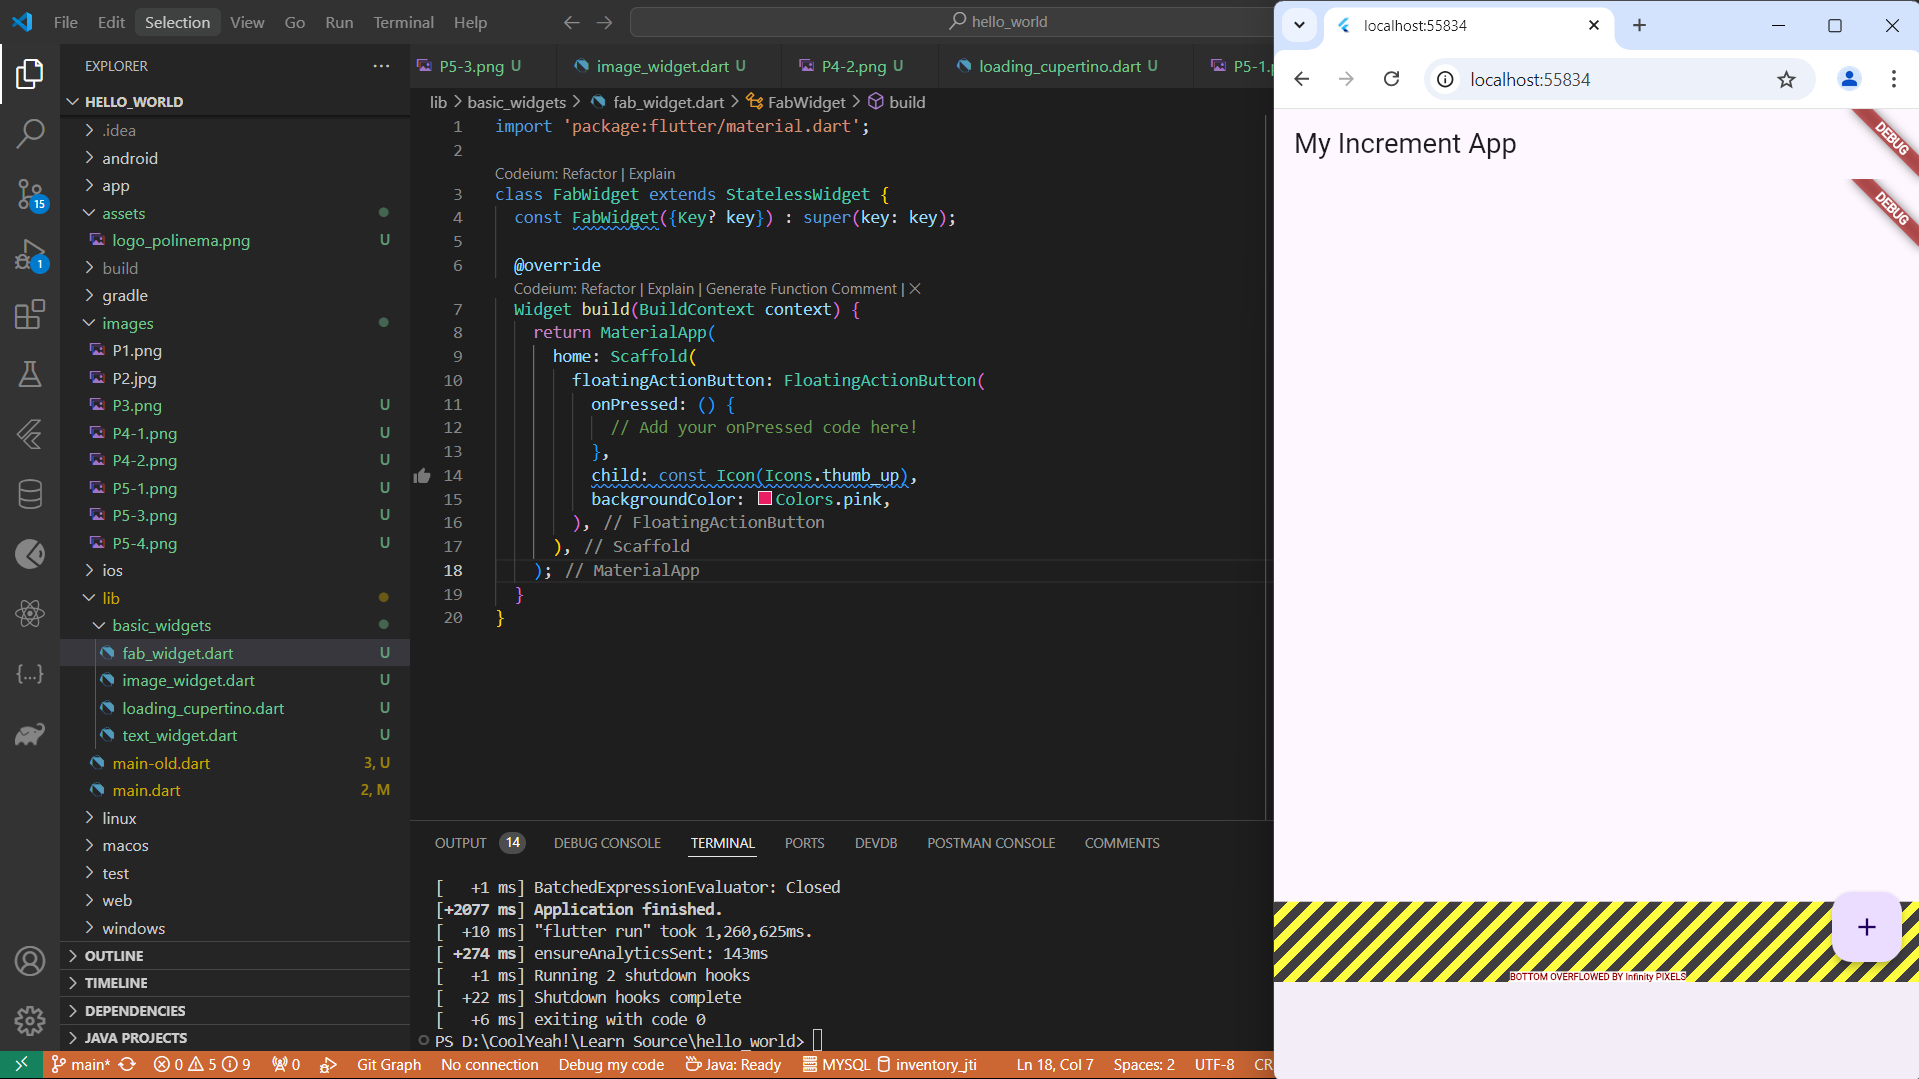
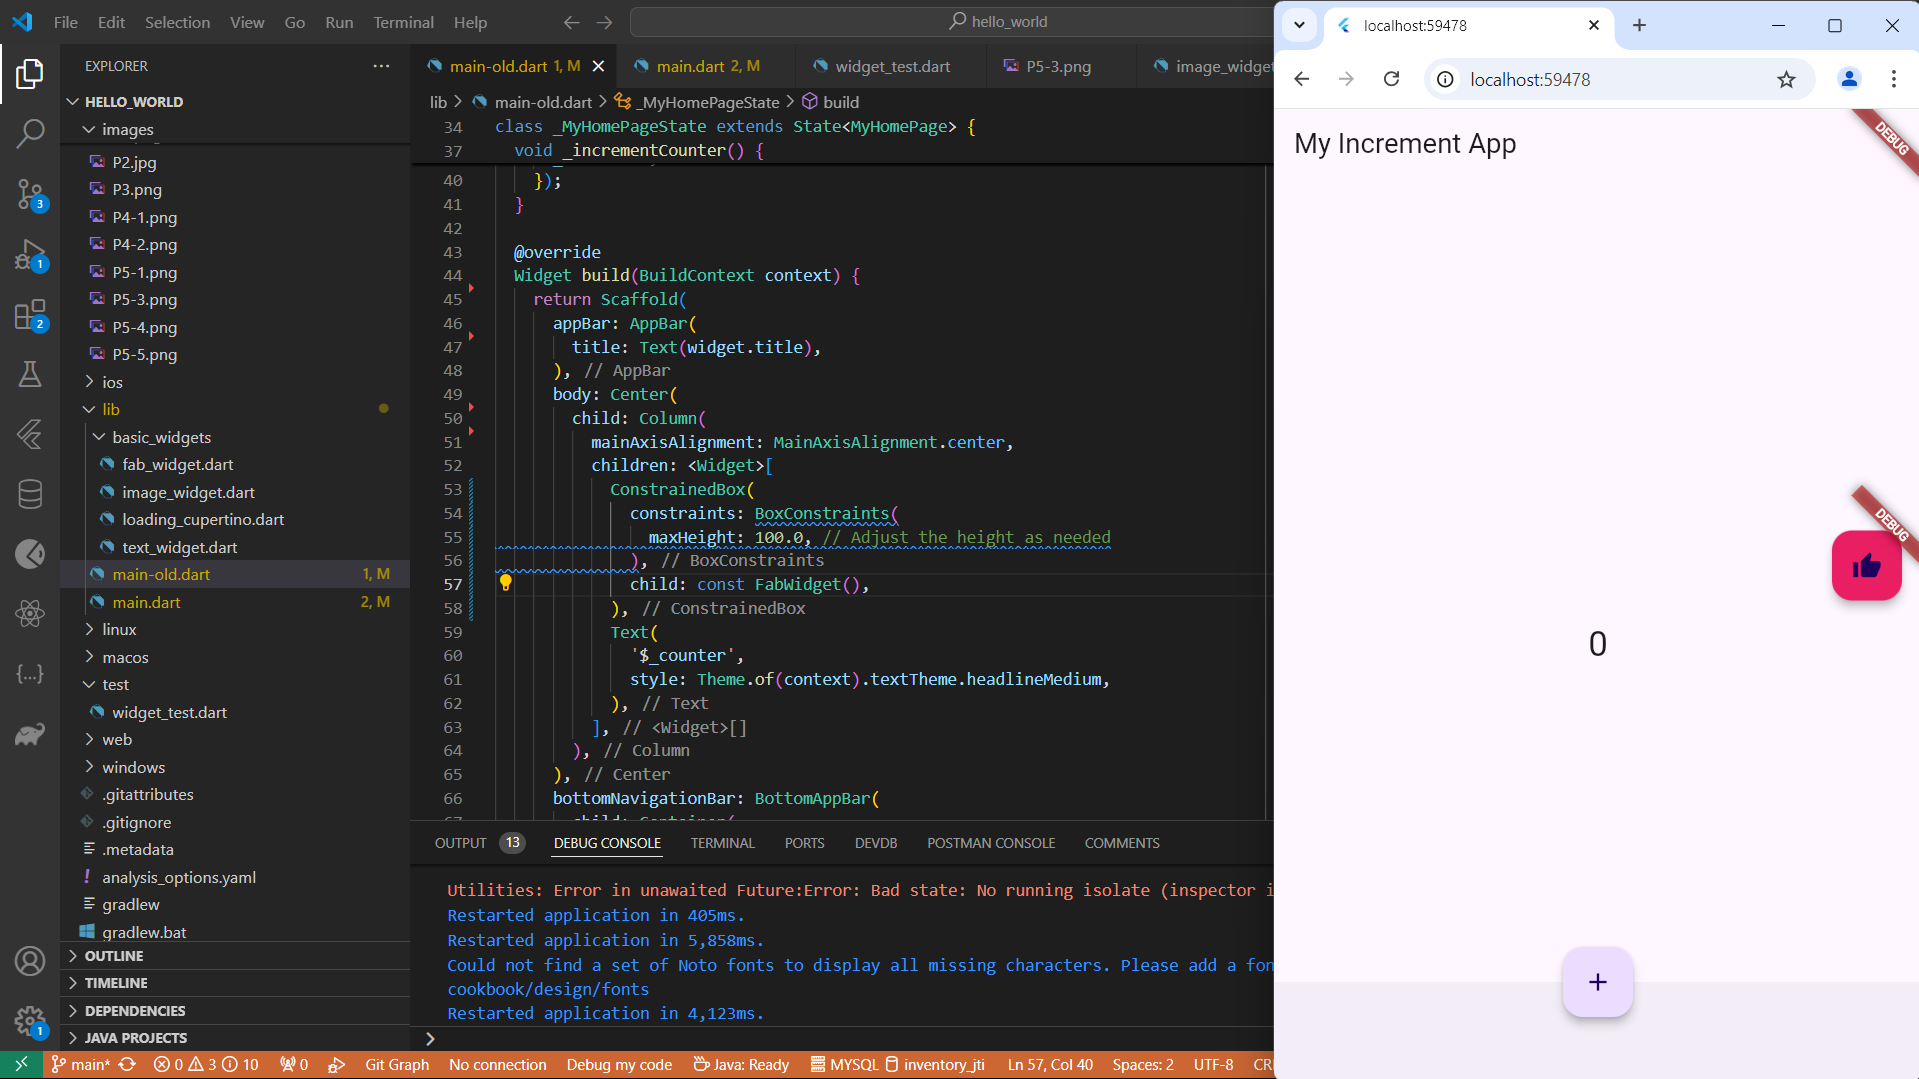
Update Readme.md

diff --git a/lib/main-old.dart b/lib/main-old.dart
@@ -7,7 +7,7 @@ void main() {
 }
 
 class MyApp extends StatelessWidget {
-  const MyApp({super.key});
+  const MyApp({Key? key}) : super(key: key);
 
   // This widget is the root of your application.
   @override
@@ -15,68 +15,15 @@ class MyApp extends StatelessWidget {
     return MaterialApp(
       title: 'Flutter Demo',
       theme: ThemeData(
-        primaryColor: Colors.red,
+        primarySwatch: Colors.red,
       ),
       home: const MyHomePage(title: 'My Increment App'),
     );
   }
 }
 
-class MyLayout extends StatelessWidget {
-  const MyLayout({Key? key}) : super(key: key);
-
-  @override
-  Widget build(BuildContext context) {
-    return Padding(
-      padding: const EdgeInsets.all(8.0),
-      child: ElevatedButton(
-        child: const Text('Show alert'),
-        onPressed: () {
-          showAlertDialog(context);
-        },
-      ),
-    );
-  }
-}
-
-showAlertDialog(BuildContext context) {
-  // set up the button
-  Widget okButton = TextButton(
-    child: const Text("OK"),
-    onPressed: () {
-      Navigator.pop(context);
-    },
-  );
-
-  // set up the AlertDialog
-  AlertDialog alert = AlertDialog(
-    title: const Text("My title"),
-    content: const Text("This is my message."),
-    actions: [
-      okButton,
-    ],
-  );
-
-  // show the dialog
-  showDialog(
-    context: context,
-    builder: (BuildContext context) {
-      return alert;
-    },
-  );
-}
-
 class MyHomePage extends StatefulWidget {
-  const MyHomePage({super.key, required this.title});
-
-  // This widget is the home page of your application. It is stateful, meaning
-  // that it has a State object (defined below) that contains fields that affect
-  // how it looks.
-
-  // This class is the configuration for the state. It holds the values (in this
-  // case the title) provided by the parent (in this case the App widget) and
-  // used by the build method of the State. Fields in a Widget subclass are
-  // always marked "final".
+  const MyHomePage({Key? key, required this.title}) : super(key: key);
 
   final String title;
 
@@ -89,52 +36,26 @@ class _MyHomePageState extends State<MyHomePage> {
 
   void _incrementCounter() {
     setState(() {
-      // This call to setState tells the Flutter framework that something has
-      // changed in this State, which causes it to rerun the build method below
-      // so that the display can reflect the updated values. If we changed
-      // _counter without calling setState(), then the build method would not be
-      // called again, and so nothing would appear to happen.
       _counter++;
     });
   }
 
   @override
   Widget build(BuildContext context) {
-    // This method is rerun every time setState is called, for instance as done
-    // by the _incrementCounter method above.
-    //
-    // The Flutter framework has been optimized to make rerunning build methods
-    // fast, so that you can just rebuild anything that needs updating rather
-    // than having to individually change instances of widgets.
     return Scaffold(
       appBar: AppBar(
-        // TRY THIS: Try changing the color here to a specific color (to
-        // Colors.amber, perhaps?) and trigger a hot reload to see the AppBar
-        // change color while the other colors stay the same.
-        // Here we take the value from the MyHomePage object that was created by
-        // the App.build method, and use it to set our appbar title.
         title: Text(widget.title),
       ),
       body: Center(
-        // Center is a layout widget. It takes a single child and positions it
-        // in the middle of the parent.
         child: Column(
-          // Column is also a layout widget. It takes a list of children and
-          // arranges them vertically. By default, it sizes itself to fit its
-          // children horizontally, and tries to be as tall as its parent.
-          //
-          // Column has various properties to control how it sizes itself and
-          // how it positions its children. Here we use mainAxisAlignment to
-          // center the children vertically; the main axis here is the vertical
-          // axis because Columns are vertical (the cross axis would be
-          // horizontal).
-          //
-          // TRY THIS: Invoke "debug painting" (choose the "Toggle Debug Paint"
-          // action in the IDE, or press "p" in the console), to see the
-          // wireframe for each widget.
           mainAxisAlignment: MainAxisAlignment.center,
           children: <Widget>[
-            const LoadingCupertino(),
+            ConstrainedBox(
+              constraints: BoxConstraints(
+                maxHeight: 100.0, // Adjust the height as needed
+              ),
+              child: const FabWidget(),
+            ),
             Text(
               '$_counter',
               style: Theme.of(context).textTheme.headlineMedium,
@@ -151,7 +72,8 @@ class _MyHomePageState extends State<MyHomePage> {
         onPressed: _incrementCounter,
         tooltip: 'Increment Counter',
         child: const Icon(Icons.add),
-      ), // This trailing comma makes auto-formatting nicer for build methods.
+      ),
+      floatingActionButtonLocation: FloatingActionButtonLocation.centerDocked,
     );
   }
 }

diff --git a/lib/datetime_picker.dart b/lib/datetime_picker.dart
@@ -1,0 +1,73 @@
+import 'dart:async';
+import 'package:flutter/material.dart';
+
+void main() => runApp(const MyApp());
+
+class MyApp extends StatelessWidget {
+  const MyApp({Key? key}) : super(key: key);
+
+  @override
+  Widget build(BuildContext context) {
+    return const MaterialApp(
+      title: 'Contoh Date Picker',
+      home: MyHomePage(title: 'Contoh Date Picker'),
+    );
+  }
+}
+
+class MyHomePage extends StatefulWidget {
+  const MyHomePage({Key? key, required this.title}) : super(key: key);
+
+  final String title;
+
+  @override
+  _MyHomePageState createState() => _MyHomePageState();
+}
+
+class _MyHomePageState extends State<MyHomePage> {
+  // Variable/State untuk mengambil tanggal
+  DateTime selectedDate = DateTime.now();
+
+  //  Initial SelectDate FLutter
+  Future<void> _selectDate(BuildContext context) async {
+    // Initial DateTime FIinal Picked
+    final DateTime? picked = await showDatePicker(
+        context: context,
+        initialDate: selectedDate,
+        firstDate: DateTime(2015, 8),
+        lastDate: DateTime(2101));
+    if (picked != null && picked != selectedDate) {
+      setState(() {
+        selectedDate = picked;
+      });
+    }
+  }
+
+  @override
+  Widget build(BuildContext context) {
+    return Scaffold(
+      appBar: AppBar(
+        title: Text(widget.title),
+      ),
+      body: Center(
+        child: Column(
+          mainAxisSize: MainAxisSize.min,
+          children: <Widget>[
+            Text("${selectedDate.toLocal()}".split(' ')[0]),
+            const SizedBox(
+              height: 20.0,
+            ),
+            ElevatedButton(
+              onPressed: () => {
+                _selectDate(context),
+                // ignore: avoid_print
+                print(selectedDate.day + selectedDate.month + selectedDate.year)
+              },
+              child: const Text('Pilih Tanggal'),
+            ),
+          ],
+        ),
+      ),
+    );
+  }
+}

diff --git a/lib/dialog_widget.dart b/lib/dialog_widget.dart
@@ -1,0 +1,62 @@
+import 'package:flutter/material.dart';
+
+void main() {
+  runApp(const MyApp());
+}
+
+class MyApp extends StatelessWidget {
+  const MyApp({Key? key}) : super(key: key);
+
+  @override
+  Widget build(BuildContext context) {
+    return const MaterialApp(
+      home: Scaffold(
+        body: MyLayout(),
+      ),
+    );
+  }
+}
+
+class MyLayout extends StatelessWidget {
+  const MyLayout({Key? key}) : super(key: key);
+
+  @override
+  Widget build(BuildContext context) {
+    return Padding(
+      padding: const EdgeInsets.all(8.0),
+      child: ElevatedButton(
+        child: const Text('Show alert'),
+        onPressed: () {
+          showAlertDialog(context);
+        },
+      ),
+    );
+  }
+}
+
+showAlertDialog(BuildContext context) {
+  // set up the button
+  Widget okButton = TextButton(
+    child: const Text("OK"),
+    onPressed: () {
+      Navigator.pop(context);
+    },
+  );
+
+  // set up the AlertDialog
+  AlertDialog alert = AlertDialog(
+    title: const Text("My title"),
+    content: const Text("This is my message."),
+    actions: [
+      okButton,
+    ],
+  );
+
+  // show the dialog
+  showDialog(
+    context: context,
+    builder: (BuildContext context) {
+      return alert;
+    },
+  );
+}

diff --git a/lib/main.dart b/lib/main.dart
@@ -1,6 +1,4 @@
 import 'package:flutter/material.dart';
-import 'package:hello_world/basic_widgets/fab_widget.dart';
-import 'package:hello_world/basic_widgets/loading_cupertino.dart';
 
 void main() {
   runApp(const MyApp());
@@ -38,7 +36,7 @@ class _MyHomePageState extends State<MyHomePage> {
     setState(() {
       _counter++;
     });
-  } 
+  }
 
   @override
   Widget build(BuildContext context) {
@@ -50,7 +48,9 @@ class _MyHomePageState extends State<MyHomePage> {
         child: Column(
           mainAxisAlignment: MainAxisAlignment.center,
           children: <Widget>[
-            const FabWidget(),
+            const Text(
+              'You have pushed the button this many times:',
+            ),
             Text(
               '$_counter',
               style: Theme.of(context).textTheme.headlineMedium,

diff --git a/lib/input_widget.dart b/lib/input_widget.dart
@@ -1,0 +1,25 @@
+import 'package:flutter/material.dart';
+
+void main(List<String> args) {
+  runApp(const MyApp());
+}
+
+class MyApp extends StatelessWidget {
+  const MyApp({Key? key}) : super(key: key);
+
+  @override
+  Widget build(BuildContext context) {
+    return MaterialApp(
+      home: Scaffold(
+        appBar: AppBar(title: const Text("Contoh TextField")),
+        body: const TextField(
+          obscureText: false,
+          decoration: InputDecoration(
+            border: OutlineInputBorder(),
+            labelText: 'Nama',
+          ),
+        ),
+      ),
+    );
+  }
+}

diff --git a/README.md b/README.md
@@ -1,5 +1,37 @@
 # **19_2241720220_Pemrograman-Mobile**
 <br>
+
 ## Nama : Putra Zakaria Muzaki
 ## Kelas : TI-3H/19
 ## NIM : 2241720220 
+
+<br>
+
+# Praktikum 1
+![alt](images/P1.png)
+
+# Praktikum 2
+![alt](images/P2.jpg)
+
+# Praktikum 3
+![alt](images/P3.png)
+
+# Praktikum 4
+Langkah 1:
+![alt](images/P4-1.png)
+Langkah 2:
+![alt](images/P4-2.png)
+
+# Praktikum 5
+Langkah 1:
+![alt](images/P5-1.png)
+Langkah 2:
+![alt](images/P5-2.png)
+Langkah 3:
+![alt](images/P5-3.png)
+Langkah 4:
+![alt](images/P5-4.png)
+Langkah 5:
+![alt](images/P5-5.png)
+Langkah 6:
+![alt](images/P5-6.png)
